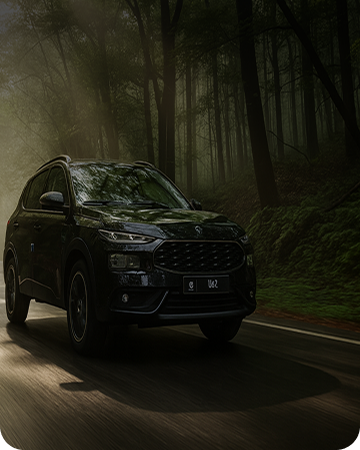
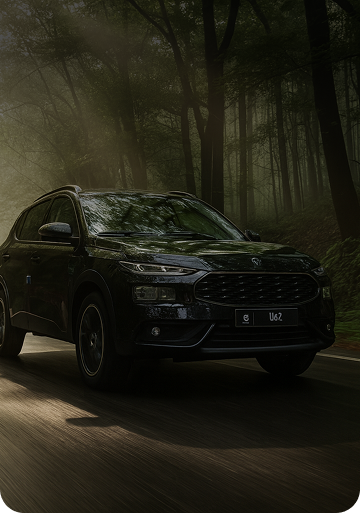
change image header

diff --git a/src/styles/output.css b/src/styles/output.css
@@ -7,10 +7,14 @@
       "Segoe UI Emoji", "Segoe UI Symbol", "Noto Color Emoji";
     --font-mono: ui-monospace, SFMono-Regular, Menlo, Monaco, Consolas, "Liberation Mono",
       "Courier New", monospace;
-    --color-amber-500: oklch(76.9% 0.188 70.08);
     --color-black: #000;
     --color-white: #fff;
     --spacing: 0.25rem;
+    --text-xs: 0.75rem;
+    --text-xs--line-height: calc(1 / 0.75);
+    --text-sm: 0.875rem;
+    --text-sm--line-height: calc(1.25 / 0.875);
+    --radius-lg: 0.5rem;
     --radius-2xl: 1rem;
     --blur-md: 12px;
     --default-font-family: var(--font-sans);
@@ -169,35 +173,14 @@
   .absolute {
     position: absolute;
   }
-  .relative {
-    position: relative;
-  }
   .top-2 {
     top: calc(var(--spacing) * 2);
-  }
-  .top-10 {
-    top: calc(var(--spacing) * 10);
-  }
-  .right-1 {
-    right: calc(var(--spacing) * 1);
-  }
-  .right-1\/2 {
-    right: calc(1/2 * 100%);
-  }
-  .left-0 {
-    left: calc(var(--spacing) * 0);
   }
   .left-1 {
     left: calc(var(--spacing) * 1);
   }
   .left-1\/2 {
     left: calc(1/2 * 100%);
-  }
-  .mx-6 {
-    margin-inline: calc(var(--spacing) * 6);
-  }
-  .mx-7 {
-    margin-inline: calc(var(--spacing) * 7);
   }
   .mr-8 {
     margin-right: calc(var(--spacing) * 8);
@@ -214,26 +197,20 @@
   .h-5 {
     height: calc(var(--spacing) * 5);
   }
+  .h-9 {
+    height: calc(var(--spacing) * 9);
+  }
   .h-10 {
     height: calc(var(--spacing) * 10);
   }
-  .h-11 {
-    height: calc(var(--spacing) * 11);
+  .h-12 {
+    height: calc(var(--spacing) * 12);
   }
   .h-14 {
     height: calc(var(--spacing) * 14);
   }
   .h-16 {
     height: calc(var(--spacing) * 16);
-  }
-  .h-\[450px\] {
-    height: 450px;
-  }
-  .h-\[500px\] {
-    height: 500px;
-  }
-  .h-\[550px\] {
-    height: 550px;
   }
   .h-\[600px\] {
     height: 600px;
@@ -244,23 +221,38 @@
   .w-5 {
     width: calc(var(--spacing) * 5);
   }
+  .w-6 {
+    width: calc(var(--spacing) * 6);
+  }
   .w-8 {
     width: calc(var(--spacing) * 8);
   }
   .w-12 {
     width: calc(var(--spacing) * 12);
   }
-  .w-\[80\%\] {
-    width: 80%;
+  .w-\[8px\] {
+    width: 8px;
   }
-  .w-\[80\] {
-    width: 80;
+  .w-\[80px\] {
+    width: 80px;
   }
   .w-\[85\%\] {
     width: 85%;
   }
-  .w-\[85\] {
-    width: 85;
+  .w-\[90px\] {
+    width: 90px;
+  }
+  .w-\[120px\] {
+    width: 120px;
+  }
+  .w-\[129px\] {
+    width: 129px;
+  }
+  .w-\[150px\] {
+    width: 150px;
+  }
+  .w-\[215px\] {
+    width: 215px;
   }
   .w-full {
     width: 100%;
@@ -276,14 +268,6 @@
     --tw-translate-x: calc(calc(1/2 * 100%) * -1);
     translate: var(--tw-translate-x) var(--tw-translate-y);
   }
-  .-translate-y-1 {
-    --tw-translate-y: calc(var(--spacing) * -1);
-    translate: var(--tw-translate-x) var(--tw-translate-y);
-  }
-  .-translate-y-1\/2 {
-    --tw-translate-y: calc(calc(1/2 * 100%) * -1);
-    translate: var(--tw-translate-x) var(--tw-translate-y);
-  }
   .cursor-pointer {
     cursor: pointer;
   }
@@ -296,75 +280,42 @@
   .justify-between {
     justify-content: space-between;
   }
+  .gap-2 {
+    gap: calc(var(--spacing) * 2);
+  }
+  .gap-3 {
+    gap: calc(var(--spacing) * 3);
+  }
   .gap-4 {
     gap: calc(var(--spacing) * 4);
   }
   .rounded-2xl {
     border-radius: var(--radius-2xl);
   }
+  .rounded-lg {
+    border-radius: var(--radius-lg);
+  }
   .border {
     border-style: var(--tw-border-style);
     border-width: 1px;
   }
-  .border-black {
-    border-color: var(--color-black);
-  }
-  .border-white {
-    border-color: var(--color-white);
+  .bg-\[\#F2F2F2\] {
+    background-color: #F2F2F2;
   }
   .bg-\[\#FFFFFF1A\] {
     background-color: #FFFFFF1A;
   }
-  .bg-\[\#ff\] {
-    background-color: #ff;
-  }
-  .bg-\[\#fff\] {
-    background-color: #fff;
-  }
-  .bg-\[\#ffffff0a\] {
-    background-color: #ffffff0a;
-  }
-  .bg-\[\#ffffff10\] {
-    background-color: #ffffff10;
-  }
-  .bg-\[ur\] {
-    background-color: ur;
-  }
-  .bg-\[url\] {
-    background-color: url;
-  }
-  .bg-amber-500 {
-    background-color: var(--color-amber-500);
-  }
   .bg-black {
     background-color: var(--color-black);
-  }
-  .bg-\[url\(\)\] {
-    background-image: url();
-  }
-  .bg-\[url\(\.\.\/images\/\)\] {
-    background-image: url(../images/);
-  }
-  .bg-\[url\(\.\.\/images\/bgHeaderM\)\] {
-    background-image: url(../images/bgHeaderM);
-  }
-  .bg-\[url\(\.\.\/images\/bgHeaderMobi\)\] {
-    background-image: url(../images/bgHeaderMobi);
-  }
-  .bg-\[url\(\.\.\/images\/bgHeaderMobile\)\] {
-    background-image: url(../images/bgHeaderMobile);
   }
   .bg-\[url\(\.\.\/images\/bgHeaderMobile\.png\)\] {
     background-image: url(../images/bgHeaderMobile.png);
   }
-  .bg-contain {
-    background-size: contain;
-  }
   .bg-cover {
     background-size: cover;
   }
-  .bg-no-repeat {
-    background-repeat: no-repeat;
+  .bg-center {
+    background-position: center;
   }
   .object-contain {
     object-fit: contain;
@@ -372,8 +323,13 @@
   .p-2 {
     padding: calc(var(--spacing) * 2);
   }
-  .px-6 {
-    padding-inline: calc(var(--spacing) * 6);
+  .text-sm {
+    font-size: var(--text-sm);
+    line-height: var(--tw-leading, var(--text-sm--line-height));
+  }
+  .text-xs {
+    font-size: var(--text-xs);
+    line-height: var(--tw-leading, var(--text-xs--line-height));
   }
   .text-white {
     color: var(--color-white);
@@ -407,6 +363,71 @@
   .md\:h-20 {
     @media (width >= 48rem) {
       height: calc(var(--spacing) * 20);
+    }
+  }
+  .md\:w-\[215px\] {
+    @media (width >= 48rem) {
+      width: 215px;
+    }
+  }
+  .md\:bg-\[url\(\.\.\/images\/bgHeaderDesktop\.png\)\] {
+    @media (width >= 48rem) {
+      background-image: url(../images/bgHeaderDesktop.png);
+    }
+  }
+  .lg\:h-16 {
+    @media (width >= 64rem) {
+      height: calc(var(--spacing) * 16);
+    }
+  }
+  .lg\:w-12 {
+    @media (width >= 64rem) {
+      width: calc(var(--spacing) * 12);
+    }
+  }
+  .lg\:w-\[129px\] {
+    @media (width >= 64rem) {
+      width: 129px;
+    }
+  }
+  .lg\:w-\[215px\] {
+    @media (width >= 64rem) {
+      width: 215px;
+    }
+  }
+  .lg\:gap-4 {
+    @media (width >= 64rem) {
+      gap: calc(var(--spacing) * 4);
+    }
+  }
+  .lg\:text-\[16px\] {
+    @media (width >= 64rem) {
+      font-size: 16px;
+    }
+  }
+  .\32 xl\:container {
+    @media (width >= 96rem) {
+      width: 100%;
+      @media (width >= 40rem) {
+        max-width: 40rem;
+      }
+      @media (width >= 48rem) {
+        max-width: 48rem;
+      }
+      @media (width >= 64rem) {
+        max-width: 64rem;
+      }
+      @media (width >= 80rem) {
+        max-width: 80rem;
+      }
+      @media (width >= 96rem) {
+        max-width: 96rem;
+      }
+    }
+  }
+  .\32 xl\:mx-auto {
+    @media (width >= 96rem) {
+      margin-inline: auto;
     }
   }
 }

diff --git a/index.html b/index.html
@@ -9,7 +9,7 @@
   <body class="bg-black text-white">
     <!-- all sections -->
     <nav
-      class="w-[85%] h-14 md:h-20 rounded-2xl bg-[#FFFFFF1A] absolute left-1/2 top-2 -translate-x-1/2 p-2 backdrop-blur-md"
+      class="w-[85%] h-14 md:h-20 rounded-2xl bg-[#FFFFFF1A] absolute left-1/2 top-2 -translate-x-1/2 p-2 backdrop-blur-md 2xl:container 2xl:mx-auto"
     >
       <!------------------ mobile section ---------------------------->
       <div class="w-full h-full flex items-center justify-between md:hidden">
@@ -34,12 +34,12 @@
           <img class="w-full h-full" src="src/icons/user.png" alt="user" />
         </figure>
       </div>
-      <!-- desktop section -->
+      <!-------------------------------- desktop section ------------------>
       <div class="w-full h-full items-center justify-between hidden md:flex">
-        <!-- right -->
+        <!--------------- right ------------->
         <div class="flex items-center">
           <!-- logo -->
-          <figure class="w-12 h-16">
+          <figure class="w-8 h-12 lg:w-12 lg:h-16">
             <img
               class="w-full h-full object-contain"
               src="src/icons/logo desktop.png"
@@ -47,7 +47,7 @@
             />
           </figure>
           <!-- links -->
-          <ul class="flex gap-4 mr-8">
+          <ul class="flex gap-3 lg:gap-4 mr-8 text-xs lg:text-[16px]">
             <li><a href="#">خانه</a></li>
             <li><a href="#">محصولات</a></li>
             <li><a href="#">شرایط فروش</a></li>
@@ -55,12 +55,28 @@
             <li><a href="#">درباره ما</a></li>
           </ul>
         </div>
-        <!-- left -->
+        <!--------------------------- left ----------------->
+        <div class="flex items-center gap-4">
+          <!-- search -->
+          <div>
+            <input
+              class="bg-[#F2F2F2] w-[150px] lg:w-[215px] h-9 rounded-lg"
+              type="text"
+            />
+          </div>
+          <!-- sign in -->
+          <div>
+            <input
+              class="bg-[#F2F2F2] w-[90px] lg:w-[129px] h-9 rounded-lg"
+              type="text"
+            />
+          </div>
+        </div>
       </div>
     </nav>
     <!-------------------------------------- haeder section ------------------------>
     <header
-      class="w-full h-[600px] bg-[url(../images/bgHeaderMobile.png)] bg-cover"
+      class="w-full h-[600px] bg-[url(../images/bgHeaderMobile.png)] md:bg-[url(../images/bgHeaderDesktop.png)] bg-cover bg-center"
     ></header>
   </body>
   <script src="src/js/index.js"></script>
